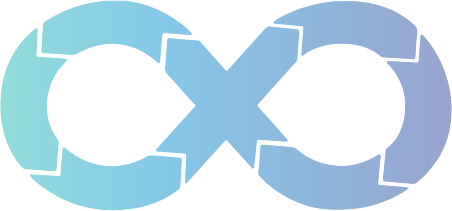
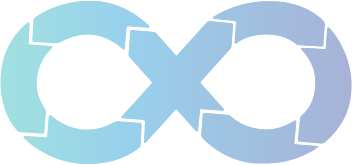
devops update

diff --git a/index.html b/index.html
@@ -4299,8 +4299,8 @@
                 background: url(images/devops.png) no-repeat 0 0;
                 display: block;
                 margin: 80px auto 0;
-                height: 300px;
-                width: 455px
+                height: 170px;
+                width: 355px
             }
 
             .security .generic-banner-inner h2 {
